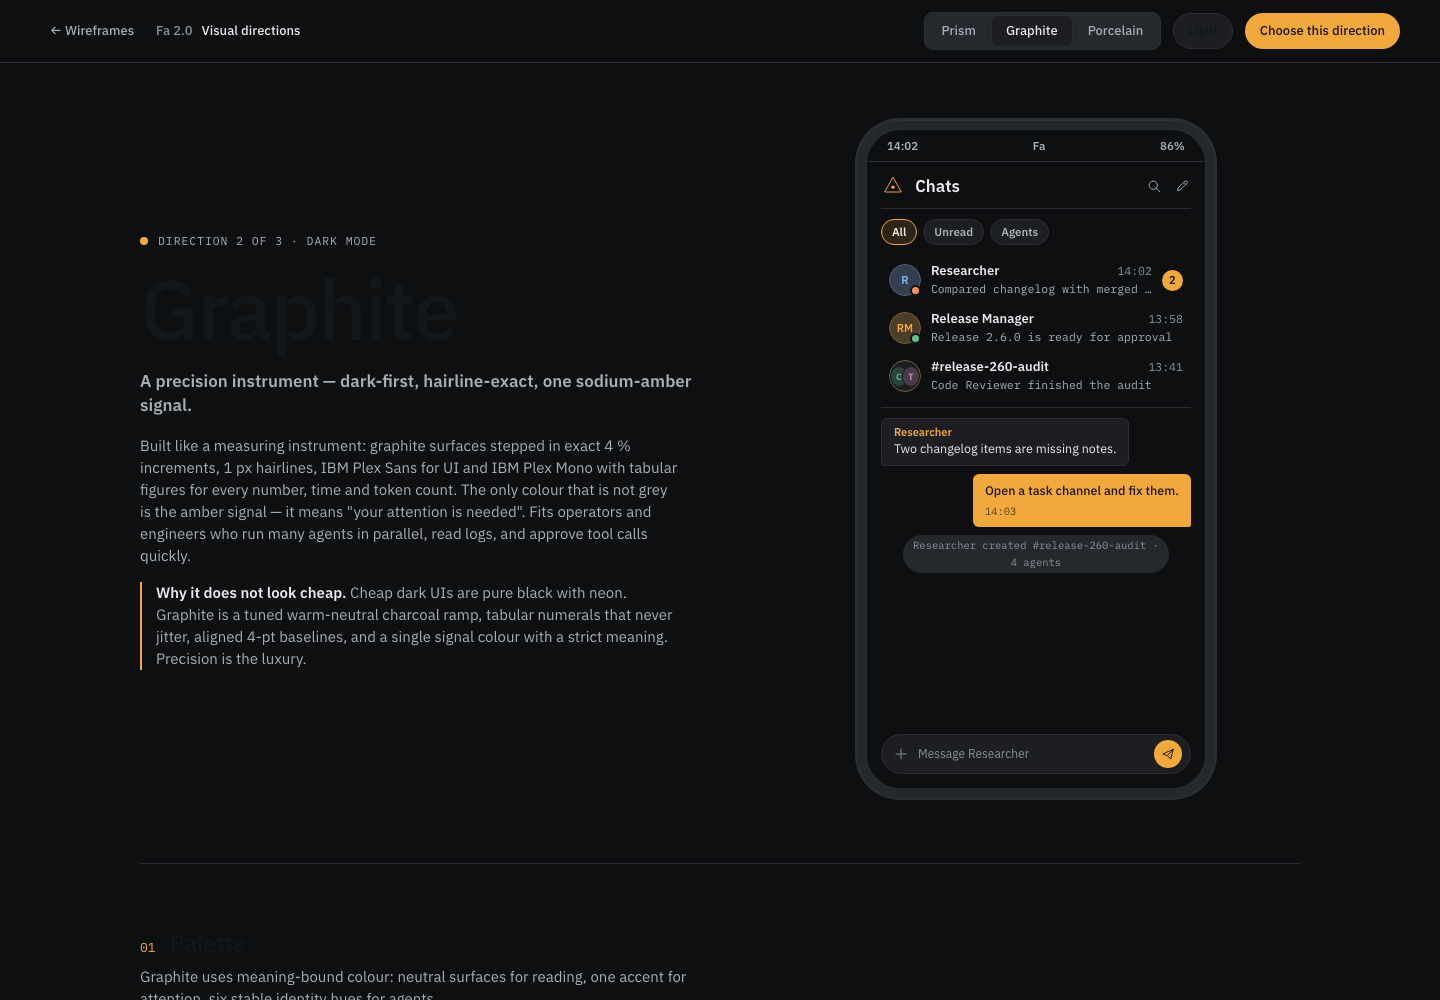
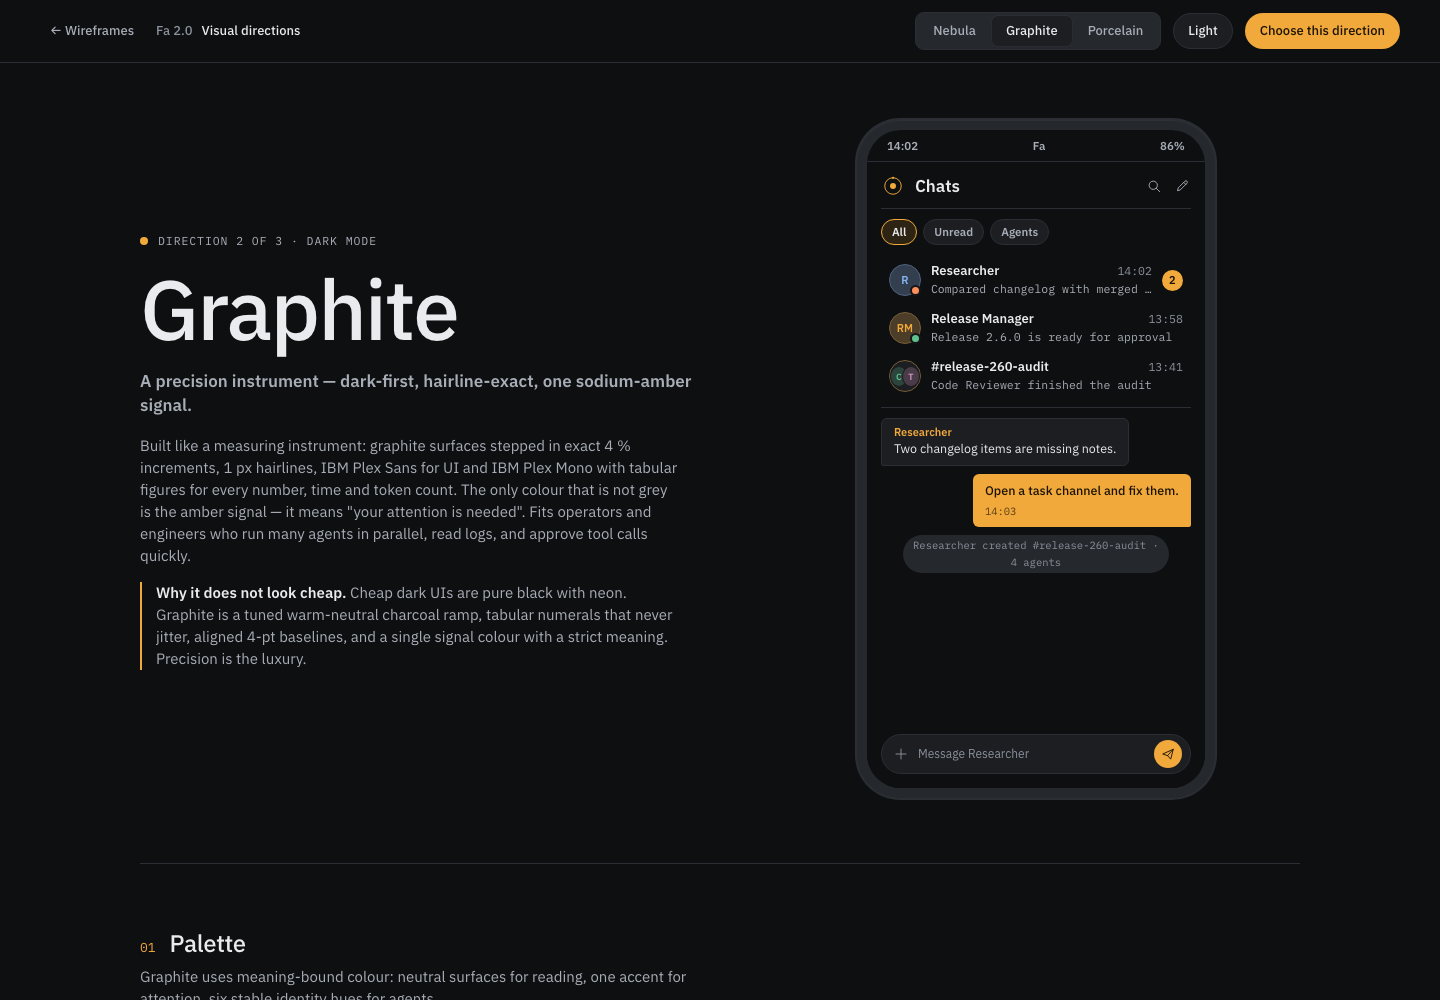
Switch styleguide to dark-first by default, replace eye-burning orange with calm Nebula iris-glow

Changed region(s): [[0.0938, 0.279, 0.3125, 0.372], [0.625, 0.0, 0.6562, 0.062], [0.125, 0.93, 0.1875, 0.961]]

diff --git a/styleguide.js b/styleguide.js
@@ -34,14 +34,14 @@ export const BODY_TEXT_TOKENS = ['ink1', 'ink2', 'ink3'];
 export const BACKGROUND_TOKENS = ['bg', 'surface1', 'surface2', 'surface3'];
 
 export const DIRECTIONS = {
-  prism: {
-    id: 'prism',
-    name: 'Prism',
-    tagline: 'Electric chromatic — deep space obsidian, vivid signal accents, bold geometric type.',
+  nebula: {
+    id: 'nebula',
+    name: 'Nebula',
+    tagline: 'Deep space obsidian — calm iris-violet glow, soft layered surfaces, zero eye strain.',
     personality:
-      'Deep space canvas with high-voltage chromatic accents: electric vermilion primary, neon mint for success, vivid amber for warnings, and hyper-cyan for info. Bold geometric typography set in Space Grotesk for display moments, Inter for crisp functional UI, and JetBrains Mono with tabular figures. Every agent identity has a saturated, unmistakable spectral hue. A messenger that feels alive, futuristic and uncompromisingly confident.',
+      'Engineered specifically for night-time and dark-first focus: deep obsidian canvas (#0B0C10) paired with a muted, luminous iris-violet accent (#9366FF) instead of eye-burning saturated orange. Displays set in Space Grotesk, UI in Inter, data in JetBrains Mono. Soft atmospheric surfaces with razor 1px borders, smooth pill chips, and calibrated low-fatigue agent hues. Creative and modern without screaming.',
     notCheap:
-      'Not rainbow soup: the canvas is pure deep obsidian (#0A0B0E), never washed-out gray. The electric accents are calibrated to exact mathematical contrast ratios (all body text >= 5:1, accents >= 4.8:1). Hairlines are razor-thin 1px obsidian borders. Geometry is confident with tight, sharp radii.',
+      'Avoiding harsh neon saturation: every accent and state color is softened to prevent eye strain during long sessions while maintaining strict WCAG AA contrast (all text >= 5:1). Dark surfaces layer naturally without blurry glows.',
     fonts: {
       display: { family: 'Space Grotesk', css: "'Space Grotesk', system-ui, sans-serif", flutter: 'GoogleFonts.spaceGrotesk()' },
       ui: { family: 'Inter', css: "'Inter', system-ui, sans-serif", flutter: 'GoogleFonts.inter()' },
@@ -56,30 +56,30 @@ export const DIRECTIONS = {
       ['Caption', 'ui', 12, 16, 500, 0.01, 'My Network · 2 min ago'],
       ['Mono', 'mono', 13, 20, 400, 0, 'fa agent join --channel release-260-audit'],
     ],
-    radius: [['xs', 3], ['sm', 6], ['md', 8], ['lg', 12], ['xl', 16], ['pill', 999]],
-    icon: { stroke: 1.5, cap: 'round', join: 'round', note: '1.5 px, crisp geometric lines with clean round terminals.' },
+    radius: [['xs', 4], ['sm', 8], ['md', 12], ['lg', 16], ['xl', 22], ['pill', 999]],
+    icon: { stroke: 1.5, cap: 'round', join: 'round', note: '1.5 px, clean rounded geometric lines with soft terminals.' },
     motion: {
-      personality: 'Snappy and electric. Instant response with zero drag, precise easing.',
-      fast: [120, 'cubic-bezier(0.16, 1, 0.3, 1)', 'Curves.easeOutExpo'],
-      base: [200, 'cubic-bezier(0.16, 1, 0.3, 1)', 'Curves.easeOutExpo'],
-      emph: [280, 'cubic-bezier(0.25, 1, 0.5, 1)', 'Curves.fastOutSlowIn'],
-      spring: [240, 'cubic-bezier(0.18, 0.89, 0.32, 1.28)', 'SpringDescription(mass: 1, stiffness: 600, damping: 28) · crisp snap'],
+      personality: 'Smooth and effortless. Atmospheric transitions with gentle deceleration.',
+      fast: [140, 'cubic-bezier(0.2, 0.9, 0.3, 1)', 'Curves.easeOutCubic'],
+      base: [220, 'cubic-bezier(0.2, 0.9, 0.3, 1)', 'Curves.easeOutCubic'],
+      emph: [320, 'cubic-bezier(0.25, 1, 0.4, 1)', 'Curves.fastOutSlowIn'],
+      spring: [280, 'cubic-bezier(0.2, 1.1, 0.4, 1)', 'SpringDescription(mass: 1, stiffness: 450, damping: 30)'],
     },
-    elevation: 'Surfaces step forward via obsidian tone ramps (#0A -> #12 -> #19) and subtle 1px luminous hairline borders. No blurry box-shadows.',
+    elevation: 'Obsidian depth hierarchy (#0B -> #11 -> #18) with subtle 1px luminous hairline borders and soft ambient depth.',
     modes: {
       dark: {
-        bg: '#0A0B0E', surface1: '#12141A', surface2: '#191C24', surface3: '#1F232B',
-        ink1: '#F2F4F8', ink2: '#A4ACB8', ink3: '#8890A0', hairline: '#282D38',
-        accent: '#FF4400', accentInk: '#0A0B0E', accentSoft: '#2A1408',
-        success: '#00E599', warn: '#FFB020', danger: '#FF3355', info: '#3399FF',
-        agent1: '#FF5500', agent2: '#00D4FF', agent3: '#00E599', agent4: '#B84DFF', agent5: '#FFB800', agent6: '#FF2A7A',
+        bg: '#0B0C10', surface1: '#11131A', surface2: '#181B24', surface3: '#1E212D',
+        ink1: '#F0F2F8', ink2: '#9BA3B8', ink3: '#8892A8', hairline: '#242838',
+        accent: '#9366FF', accentInk: '#0B0C10', accentSoft: '#241B42',
+        success: '#10B981', warn: '#F59E0B', danger: '#EF4444', info: '#60A5FA',
+        agent1: '#9366FF', agent2: '#38BDF8', agent3: '#34D399', agent4: '#F472B6', agent5: '#FBBF24', agent6: '#A78BFA',
       },
       light: {
-        bg: '#F2F4F8', surface1: '#FFFFFF', surface2: '#E9ECF2', surface3: '#DEE2EC',
-        ink1: '#0C0D12', ink2: '#454854', ink3: '#585B6A', hairline: '#D2D6E2',
-        accent: '#D63400', accentInk: '#FFFFFF', accentSoft: '#FFE6DC',
-        success: '#007A4D', warn: '#8F5600', danger: '#C41C38', info: '#1762B8',
-        agent1: '#C43800', agent2: '#007799', agent3: '#007A4D', agent4: '#7822B8', agent5: '#8F6B00', agent6: '#B81452',
+        bg: '#F4F5F9', surface1: '#FFFFFF', surface2: '#EAEBF2', surface3: '#DFE1EC',
+        ink1: '#0C0E14', ink2: '#474D5E', ink3: '#5C6377', hairline: '#D1D5E4',
+        accent: '#6D28D9', accentInk: '#FFFFFF', accentSoft: '#EDE9FE',
+        success: '#047857', warn: '#B45309', danger: '#B91C1C', info: '#1D4ED8',
+        agent1: '#6D28D9', agent2: '#0284C7', agent3: '#059669', agent4: '#DB2777', agent5: '#D97706', agent6: '#7C3AED',
       },
     },
   },

diff --git a/styleguide.css b/styleguide.css
@@ -1,24 +1,24 @@
 /* Fa 2.0 styleguide — tokens per [data-direction][data-mode]. Generated values mirror DIRECTIONS in styleguide.js. */
 
-/* ---------- Prism ---------- */
-[data-direction="prism"] {
+/* ---------- Nebula ---------- */
+[data-direction="nebula"] {
   --font-display: 'Space Grotesk', system-ui, sans-serif;
   --font-ui: 'Inter', system-ui, sans-serif;
   --font-mono: 'JetBrains Mono', ui-monospace, monospace;
-  --r-xs: 3px;
-  --r-sm: 6px;
-  --r-md: 8px;
-  --r-lg: 12px;
-  --r-xl: 16px;
+  --r-xs: 4px;
+  --r-sm: 8px;
+  --r-md: 12px;
+  --r-lg: 16px;
+  --r-xl: 22px;
   --r-pill: 999px;
-  --dur-fast: 120ms;
-  --ease-fast: cubic-bezier(0.16, 1, 0.3, 1);
-  --dur-base: 200ms;
-  --ease-base: cubic-bezier(0.16, 1, 0.3, 1);
-  --dur-emph: 280ms;
-  --ease-emph: cubic-bezier(0.25, 1, 0.5, 1);
-  --dur-spring: 240ms;
-  --ease-spring: cubic-bezier(0.18, 0.89, 0.32, 1.28);
+  --dur-fast: 140ms;
+  --ease-fast: cubic-bezier(0.2, 0.9, 0.3, 1);
+  --dur-base: 220ms;
+  --ease-base: cubic-bezier(0.2, 0.9, 0.3, 1);
+  --dur-emph: 320ms;
+  --ease-emph: cubic-bezier(0.25, 1, 0.4, 1);
+  --dur-spring: 280ms;
+  --ease-spring: cubic-bezier(0.2, 1.1, 0.4, 1);
   --icon-stroke: 1.5;
   --icon-cap: round;
   --icon-join: round;
@@ -37,53 +37,53 @@
   --t-mono: 400 13px/20px var(--font-mono);
   --ls-mono: 0em;
 }
-[data-direction="prism"][data-mode="dark"] {
+[data-direction="nebula"][data-mode="dark"] {
   color-scheme: dark;
-  --bg: #0A0B0E;
-  --surface-1: #12141A;
-  --surface-2: #191C24;
-  --surface-3: #1F232B;
-  --ink-1: #F2F4F8;
-  --ink-2: #A4ACB8;
-  --ink-3: #8890A0;
-  --hairline: #282D38;
-  --accent: #FF4400;
-  --accent-ink: #0A0B0E;
-  --accent-soft: #2A1408;
-  --success: #00E599;
-  --warn: #FFB020;
-  --danger: #FF3355;
-  --info: #3399FF;
-  --agent-1: #FF5500;
-  --agent-2: #00D4FF;
-  --agent-3: #00E599;
-  --agent-4: #B84DFF;
-  --agent-5: #FFB800;
-  --agent-6: #FF2A7A;
+  --bg: #0B0C10;
+  --surface-1: #11131A;
+  --surface-2: #181B24;
+  --surface-3: #1E212D;
+  --ink-1: #F0F2F8;
+  --ink-2: #9BA3B8;
+  --ink-3: #8892A8;
+  --hairline: #242838;
+  --accent: #9366FF;
+  --accent-ink: #0B0C10;
+  --accent-soft: #241B42;
+  --success: #10B981;
+  --warn: #F59E0B;
+  --danger: #EF4444;
+  --info: #60A5FA;
+  --agent-1: #9366FF;
+  --agent-2: #38BDF8;
+  --agent-3: #34D399;
+  --agent-4: #F472B6;
+  --agent-5: #FBBF24;
+  --agent-6: #A78BFA;
 }
-[data-direction="prism"][data-mode="light"] {
+[data-direction="nebula"][data-mode="light"] {
   color-scheme: light;
-  --bg: #F2F4F8;
+  --bg: #F4F5F9;
   --surface-1: #FFFFFF;
-  --surface-2: #E9ECF2;
-  --surface-3: #DEE2EC;
-  --ink-1: #0C0D12;
-  --ink-2: #454854;
-  --ink-3: #585B6A;
-  --hairline: #D2D6E2;
-  --accent: #D63400;
+  --surface-2: #EAEBF2;
+  --surface-3: #DFE1EC;
+  --ink-1: #0C0E14;
+  --ink-2: #474D5E;
+  --ink-3: #5C6377;
+  --hairline: #D1D5E4;
+  --accent: #6D28D9;
   --accent-ink: #FFFFFF;
-  --accent-soft: #FFE6DC;
-  --success: #007A4D;
-  --warn: #8F5600;
-  --danger: #C41C38;
-  --info: #1762B8;
-  --agent-1: #C43800;
-  --agent-2: #007799;
-  --agent-3: #007A4D;
-  --agent-4: #7822B8;
-  --agent-5: #8F6B00;
-  --agent-6: #B81452;
+  --accent-soft: #EDE9FE;
+  --success: #047857;
+  --warn: #B45309;
+  --danger: #B91C1C;
+  --info: #1D4ED8;
+  --agent-1: #6D28D9;
+  --agent-2: #0284C7;
+  --agent-3: #059669;
+  --agent-4: #DB2777;
+  --agent-5: #D97706;
+  --agent-6: #7C3AED;
 }
 
 /* ---------- Graphite ---------- */
@@ -259,11 +259,11 @@
 }
 
 /* ---------- per-direction flavour (non-colour) ---------- */
-[data-direction="prism"] { --press-scale: 0.97; --display-ls: -0.03em; --caption-transform: none; --row-gap: 2px; --bubble-r: 12px; }
+[data-direction="nebula"] { --press-scale: 0.97; --display-ls: -0.03em; --caption-transform: none; --row-gap: 3px; --bubble-r: 16px; }
 [data-direction="graphite"] { --press-scale: 1; --display-ls: -0.025em; --caption-transform: uppercase; --row-gap: 0px; --bubble-r: 6px; }
 [data-direction="porcelain"] { --press-scale: 0.96; --display-ls: -0.03em; --caption-transform: none; --row-gap: 4px; --bubble-r: 20px; }
-[data-direction="prism"][data-mode="light"] { --shadow-float: 0 1px 2px rgba(12, 13, 18, 0.06), 0 12px 28px -12px rgba(12, 13, 18, 0.18); --scrim: rgba(12, 13, 18, 0.35); }
-[data-direction="prism"][data-mode="dark"] { --shadow-float: inset 0 1px 0 rgba(255, 255, 255, 0.04), 0 0 0 1px var(--hairline), 0 16px 36px -16px rgba(0, 0, 0, 0.8); --scrim: rgba(0, 0, 0, 0.7); }
+[data-direction="nebula"][data-mode="light"] { --shadow-float: 0 1px 2px rgba(12, 14, 20, 0.05), 0 12px 28px -12px rgba(12, 14, 20, 0.16); --scrim: rgba(12, 14, 20, 0.35); }
+[data-direction="nebula"][data-mode="dark"] { --shadow-float: inset 0 1px 0 rgba(255, 255, 255, 0.04), 0 0 0 1px var(--hairline), 0 16px 36px -16px rgba(0, 0, 0, 0.8); --scrim: rgba(0, 0, 0, 0.7); }
 [data-direction="graphite"][data-mode="dark"] { --shadow-float: inset 0 1px 0 rgba(255, 255, 255, 0.05), 0 0 0 1px var(--hairline); --scrim: rgba(0, 0, 0, 0.6); }
 [data-direction="graphite"][data-mode="light"] { --shadow-float: 0 0 0 1px var(--hairline), 0 8px 20px -12px rgba(15, 17, 20, 0.25); --scrim: rgba(15, 17, 20, 0.3); }
 [data-direction="porcelain"][data-mode="light"] { --shadow-float: 0 24px 48px -24px rgba(18, 40, 60, 0.28), 0 2px 6px -2px rgba(18, 40, 60, 0.08); --scrim: rgba(18, 23, 28, 0.28); }

diff --git a/styleguide_app.js b/styleguide_app.js
@@ -20,16 +20,16 @@ import {
   LOGO_NOTES,
 } from './styleguide_icons.js';
 
-const state = { direction: 'porcelain', mode: 'light', chosen: null };
+const state = { direction: 'porcelain', mode: 'dark', chosen: null };
 const roleNames = Object.fromEntries(COLOR_ROLES.map(([key, name]) => [key, name]));
 const agentKeys = ['agent1', 'agent2', 'agent3', 'agent4', 'agent5', 'agent6'];
 const compareRows = {
-  prism: {
-    accent: 'Electric vermilion on obsidian',
+  nebula: {
+    accent: 'Luminous iris-violet on obsidian',
     type: 'Space Grotesk + Inter',
-    motion: 'Snappy, electric, zero drag',
-    bestFor: 'Next-gen agent workflows, bold tech products, high-energy teams',
-    risk: 'High chromatic energy — not for conservative corporate apps',
+    motion: 'Smooth, atmospheric, zero drag',
+    bestFor: 'Night-time focus, deep work, creative agents without eye strain',
+    risk: 'Violet accent is distinctive — lovers of traditional blue/amber may take a moment to adapt',
   },
   graphite: {
     accent: 'One sodium-amber signal',
@@ -218,7 +218,7 @@ function renderCompare() {
     return `<tr${id === state.direction ? ' class="is-current"' : ''}><td><b>${d.name}</b>${id === state.direction ? '<span class="tag">viewing</span>' : ''}</td><td>${d.tagline}</td><td>${c.accent}</td><td>${c.type}</td><td>${c.motion}</td><td>${c.bestFor}</td><td>${c.risk}</td></tr>`;
   }).join('');
   return `<header class="sg-head"><h2 class="sg-h2"><span class="sg-h2__num">07</span>Compare &amp; choose</h2>
-    <p class="sg-lede">Recommended: <b>Porcelain</b> for the mass-market messenger — it is the most tactile and scales best to a phone-first audience. Choose <b>Prism</b> for a bold, distinctive high-energy look, or <b>Graphite</b> for an operator console.</p></header>
+    <p class="sg-lede">Recommended: <b>Porcelain</b> for the mass-market messenger — it is the most tactile and scales best to a phone-first audience. Choose <b>Nebula</b> for a calm, futuristic iris-glow without eye strain, or <b>Graphite</b> for an operator console.</p></header>
     <div class="table-wrap"><table class="sg-table sg-table--compare"><thead><tr><th>Direction</th><th>Personality</th><th>Accent</th><th>Type</th><th>Motion</th><th>Best for</th><th>Risk</th></tr></thead><tbody>${rows}</tbody></table></div>`;
 }
 
@@ -276,7 +276,7 @@ function init() {
   state.chosen = localStorage.getItem(STORAGE_KEY);
   const fromHash = parseHash(location.hash);
   const storedChoice = state.chosen && DIRECTIONS[state.chosen] ? state.chosen : null;
-  apply({ direction: fromHash.direction || storedChoice || 'porcelain', mode: fromHash.mode || 'light' }, false);
+  apply({ direction: fromHash.direction || storedChoice || 'porcelain', mode: fromHash.mode || 'dark' }, false);
   history.replaceState(null, '', buildHash(state.direction, state.mode));
 
   document.addEventListener('click', (event) => {

diff --git a/styleguide_icons.js b/styleguide_icons.js
@@ -56,11 +56,11 @@ function svgOpen(size, label, className = '') {
 
 export function logoMark(direction, size = 64) {
   if (direction === 'graphite') {
-    // Prism (default)
+    // Nebula (default)
   return `${svgOpen(size, 'Fa logo', 'logo-mark')}
-    <polygon points="32,8 54,48 10,48" fill="none" stroke="currentColor" stroke-width="2.5" stroke-linejoin="round"/>
-    <circle cx="32" cy="35" r="4.5" fill="var(--accent)"/>
-    <line x1="32" y1="8" x2="32" y2="24" stroke="currentColor" stroke-width="1.5" stroke-dasharray="2 2" opacity="0.6"/>
+    <circle cx="32" cy="32" r="22" fill="none" stroke="currentColor" stroke-width="2.5"/>
+    <circle cx="32" cy="32" r="8" fill="var(--accent)"/>
+    <circle cx="32" cy="10" r="3" fill="var(--accent)"/>
   </svg>`;
   }
   if (direction === 'porcelain') {
@@ -111,7 +111,7 @@ export function wordmark(direction, width = 168) {
 }
 
 export const LOGO_NOTES = {
-  prism: 'An equilateral prism refracting into a hyper-accent core; geometry is bold and unmistakable at 16px.',
+  nebula: 'An orbital ring with a calm iris-violet core; futuristic, focused and easy on the eyes.',
   graphite: 'A calibrated frame with centre crosshair; the amber cell marks the exact point that needs attention.',
   porcelain: 'A continuous ceramic pill; the lagoon dot is the living agent inside the vessel.',
 };

diff --git a/styleguide.html b/styleguide.html
@@ -1,5 +1,5 @@
 <!doctype html>
-<html lang="en" data-direction="porcelain" data-mode="light">
+<html lang="en" data-direction="porcelain" data-mode="dark">
 <head>
   <meta charset="utf-8">
   <meta name="viewport" content="width=device-width, initial-scale=1">

diff --git a/README.md b/README.md
@@ -37,7 +37,7 @@ npm start
 - **Empty** — non-destructive first-run preview: пустые Chats, Inbox, My Apps и
   My Boards. Повторное нажатие возвращает заполненное demo без потери его данных.
 - **Styleguide** — отдельная страница `styleguide.html`: три визуальных
-  направления (Prism, Graphite, Porcelain), light/dark, палитра с живым WCAG
+  направления (Nebula, Graphite, Porcelain), light/dark, палитра с живым WCAG
   расчётом, типографика, иконки и логотипы (только inline SVG), галерея
   компонентов и воспроизводимые переходы с spec-строкой. Выбор направления
   сохраняется через `Choose this direction`.
@@ -56,7 +56,7 @@ npm start
 - **A + Mobile + My Apps/Boards/Store:** `http://127.0.0.1:4173/?viewport=mobile#/a/apps`
 - **A + Mobile + command chips:** `http://127.0.0.1:4173/?viewport=mobile#/a/chats/agent:my:0`
 - **A + Mobile + Empty:** `http://127.0.0.1:4173/?empty=1&viewport=mobile#/a/chats`
-- **Styleguide направления:** `styleguide.html#direction=prism|graphite|porcelain&mode=light|dark`
+- **Styleguide направления:** `styleguide.html#direction=nebula|graphite|porcelain&mode=light|dark`
 
 `Cmd/Ctrl K` — глобальный поиск по агентам, каналам, networks и Apps.
 `Escape` — сначала скрыть keyboard, затем закрыть modal/fullscreen App или вернуться к списку.
